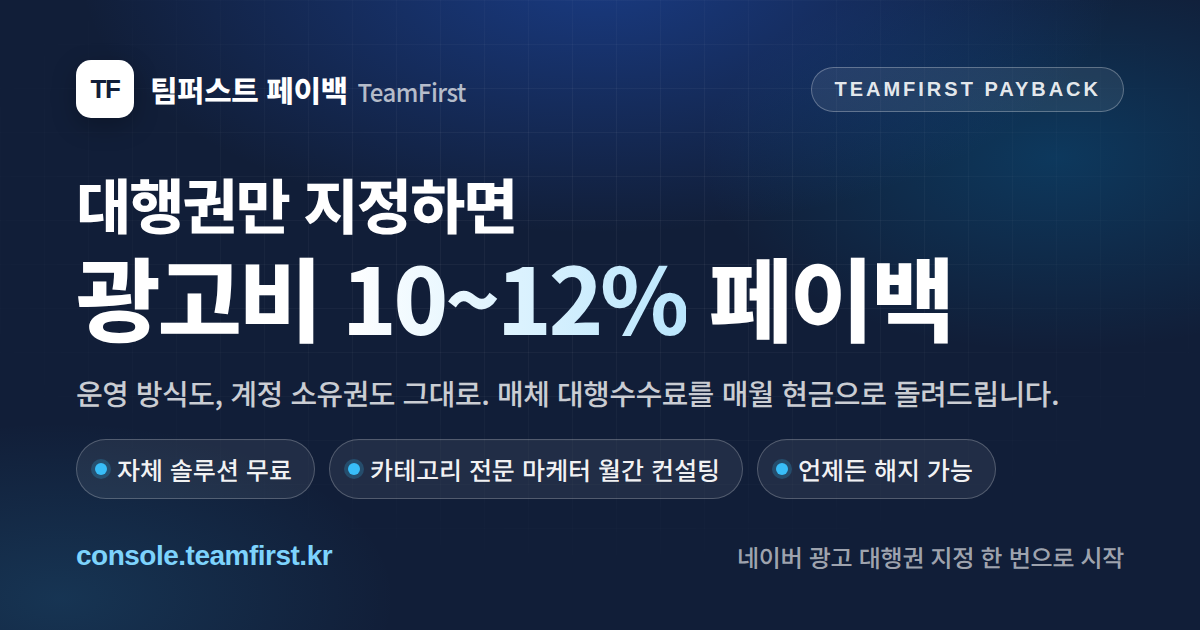
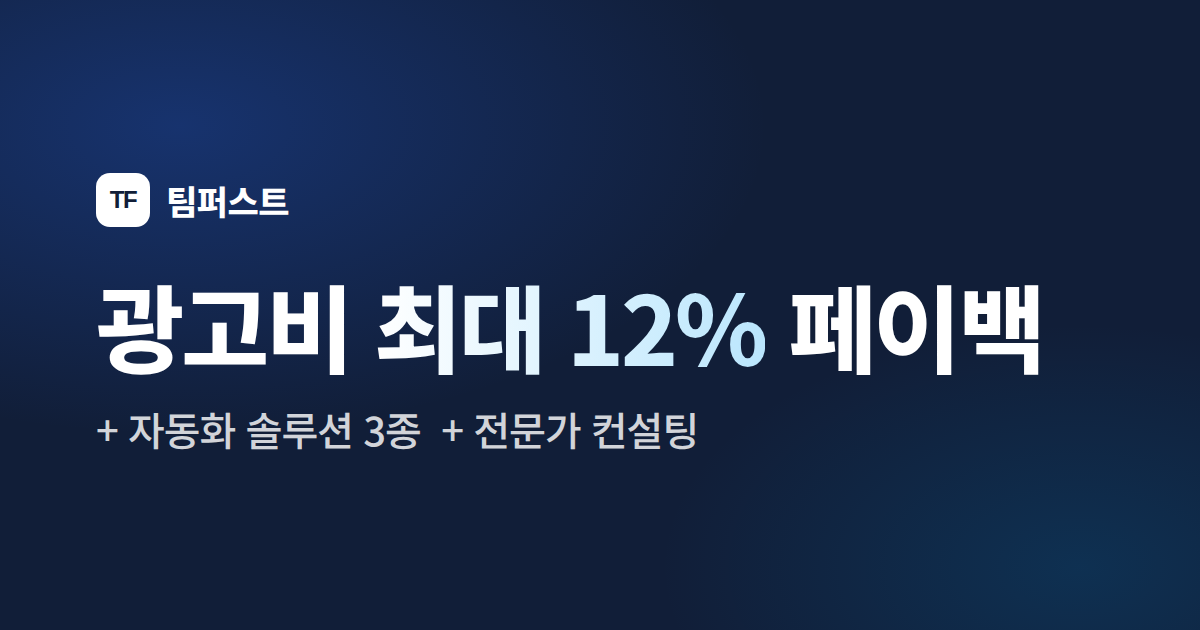
fix(seo): 링크 미리보기 제목 "팀퍼스트" + OG 이미지 미니멀 재구성
- 제목: "팀퍼스트", 설명: "광고비 최대 12% 페이백 + 자동화 솔루션 3종 + 전문가 컨설팅 …"
- OG 이미지: 배지·칩·URL·보조 문구 제거 → 브랜드 + 헤드라인 "광고비 최대 12% 페이백"
  + 한 줄 "+ 자동화 솔루션 3종 + 전문가 컨설팅"만 남긴 구성 (광고 배너 느낌 완화)
- 재생성 템플릿(docs/assets/og-image.html)·alt·DECISIONS D-072 동기화

Claude-Session: https://claude.ai/code/session_01AgqvyaaWHPUd1xCxC5BYys

diff --git a/docs/assets/og-image.html b/docs/assets/og-image.html
@@ -6,7 +6,7 @@
 <!--
   링크 공유 미리보기(OG) 이미지 원본 템플릿 — app/opengraph-image.png 재생성용.
   재생성: 이 파일을 1200×630 뷰포트(Playwright/Chromium 등)로 열어 PNG 스크린샷 → app/opengraph-image.png 교체.
-  요율(10~12%)·문구 변경 시 함께 갱신할 것 (docs/DECISIONS.md D-072).
+  요율(최대 12%)·문구 변경 시 함께 갱신할 것 (docs/DECISIONS.md D-072).
 -->
 <link rel="preconnect" href="https://fonts.googleapis.com">
 <link rel="stylesheet" href="https://fonts.googleapis.com/css2?family=Noto+Sans+KR:wght@500;800&display=swap">
@@ -21,69 +21,28 @@
   }
   .glow { position: absolute; inset: 0;
     background:
-      radial-gradient(62% 60% at 50% -5%, rgba(37, 99, 235, 0.42), transparent 70%),
-      radial-gradient(42% 44% at 88% 25%, rgba(2, 132, 199, 0.26), transparent 70%),
-      radial-gradient(40% 40% at 5% 95%, rgba(56, 189, 248, 0.14), transparent 70%); }
-  .grid { position: absolute; inset: 0;
-    background-image:
-      linear-gradient(rgba(255,255,255,0.045) 1px, transparent 1px),
-      linear-gradient(90deg, rgba(255,255,255,0.045) 1px, transparent 1px);
-    background-size: 44px 44px;
-    -webkit-mask-image: radial-gradient(75% 75% at 50% 35%, #000 25%, transparent 78%); }
-  .wrap { position: relative; height: 100%; padding: 60px 76px 56px; display: flex; flex-direction: column; justify-content: space-between; }
-  .top { display: flex; align-items: center; justify-content: space-between; }
+      radial-gradient(70% 70% at 15% 20%, rgba(37, 99, 235, 0.30), transparent 70%),
+      radial-gradient(50% 55% at 90% 90%, rgba(2, 132, 199, 0.18), transparent 70%); }
+  .wrap { position: relative; height: 100%; padding: 0 96px; display: flex; flex-direction: column; justify-content: center; }
   .brand { display: flex; align-items: center; gap: 16px; }
-  .badge { width: 58px; height: 58px; border-radius: 15px; background: #fff; color: #111E38;
-    display: flex; align-items: center; justify-content: center; font-weight: 800; font-size: 26px; letter-spacing: -1.5px;
-    font-family: "Helvetica Neue", Arial, "Noto Sans KR", sans-serif; box-shadow: 0 8px 24px rgba(0,0,0,0.25); }
-  .brand-name { font-size: 30px; font-weight: 800; letter-spacing: -0.5px; }
-  .brand-name small { font-weight: 500; color: rgba(255,255,255,0.7); font-size: 24px; margin-left: 10px; }
-  .pill { border: 1.5px solid rgba(255,255,255,0.28); background: rgba(255,255,255,0.08); border-radius: 999px;
-    padding: 10px 22px; font-size: 20px; font-weight: 800; letter-spacing: 3px; color: rgba(255,255,255,0.9);
+  .badge { width: 54px; height: 54px; border-radius: 14px; background: #fff; color: #111E38;
+    display: flex; align-items: center; justify-content: center; font-weight: 800; font-size: 24px; letter-spacing: -1.5px;
     font-family: "Helvetica Neue", Arial, "Noto Sans KR", sans-serif; }
-  .hero { margin-top: 10px; }
-  .h1 { font-size: 60px; font-weight: 800; line-height: 1.16; letter-spacing: -2px; }
-  .h1 .big { display: block; font-size: 92px; line-height: 1.1; letter-spacing: -3.5px; margin-top: 6px; }
+  .brand-name { font-size: 34px; font-weight: 800; letter-spacing: -0.5px; }
+  .h1 { margin-top: 44px; font-size: 96px; font-weight: 800; line-height: 1.12; letter-spacing: -3.5px; }
   .h1 .grad { background: linear-gradient(90deg, #ffffff 0%, #bae6fd 100%); -webkit-background-clip: text; background-clip: text; color: transparent; }
-  .sub { margin-top: 26px; font-size: 29px; font-weight: 500; line-height: 1.45; color: rgba(255,255,255,0.78); letter-spacing: -0.5px; }
-  .chips { margin-top: 26px; display: flex; gap: 14px; flex-wrap: wrap; }
-  .chip { display: flex; align-items: center; gap: 10px; border: 1.5px solid rgba(255,255,255,0.22); background: rgba(255,255,255,0.07);
-    border-radius: 999px; padding: 11px 22px 11px 18px; font-size: 25px; font-weight: 500; color: rgba(255,255,255,0.95); }
-  .chip i { width: 12px; height: 12px; border-radius: 999px; background: #38bdf8; box-shadow: 0 0 0 4px rgba(56,189,248,0.22); }
-  .bottom { display: flex; align-items: center; justify-content: space-between; }
-  .url { font-size: 28px; font-weight: 800; color: #7dd3fc; letter-spacing: -0.5px; font-family: "Helvetica Neue", Arial, "Noto Sans KR", sans-serif; }
-  .note { font-size: 24px; font-weight: 500; color: rgba(255,255,255,0.62); letter-spacing: -0.3px; }
+  .sub { margin-top: 22px; font-size: 40px; font-weight: 500; line-height: 1.4; color: rgba(255,255,255,0.82); letter-spacing: -1px; }
 </style>
 </head>
 <body>
   <div class="glow"></div>
-  <div class="grid"></div>
   <div class="wrap">
-    <div class="top">
-      <div class="brand">
-        <div class="badge">TF</div>
-        <div class="brand-name">팀퍼스트 페이백<small>TeamFirst</small></div>
-      </div>
-      <div class="pill">TEAMFIRST PAYBACK</div>
+    <div class="brand">
+      <div class="badge">TF</div>
+      <div class="brand-name">팀퍼스트</div>
     </div>
-
-    <div class="hero">
-      <div class="h1">
-        대행권만 지정하면
-        <span class="big">광고비 <span class="grad">10~12%</span> 페이백</span>
-      </div>
-      <div class="sub">운영 방식도, 계정 소유권도 그대로. 매체 대행수수료를 매월 현금으로 돌려드립니다.</div>
-      <div class="chips">
-        <div class="chip"><i></i>자체 솔루션 무료</div>
-        <div class="chip"><i></i>카테고리 전문 마케터 월간 컨설팅</div>
-        <div class="chip"><i></i>언제든 해지 가능</div>
-      </div>
-    </div>
-
-    <div class="bottom">
-      <div class="url">console.teamfirst.kr</div>
-      <div class="note">네이버 광고 대행권 지정 한 번으로 시작</div>
-    </div>
+    <div class="h1">광고비 <span class="grad">최대 12%</span> 페이백</div>
+    <div class="sub">+ 자동화 솔루션 3종 &nbsp;+ 전문가 컨설팅</div>
   </div>
 </body>
 </html>

diff --git a/app/layout.tsx b/app/layout.tsx
@@ -5,9 +5,9 @@ import { Analytics, GtmNoScript } from "@/components/analytics";
 import "./globals.css";
 
 const SITE_URL = process.env.NEXT_PUBLIC_APP_URL || "https://console.teamfirst.kr";
-const SITE_TITLE = "팀퍼스트 페이백 — 대행권만 지정하면 광고비 10~12% 페이백";
+const SITE_TITLE = "팀퍼스트";
 const SITE_DESCRIPTION =
-  "네이버 광고 대행권을 팀퍼스트로 지정하면 광고비의 10~12%를 매월 현금으로 돌려드립니다. 운영 방식도 계정 소유권도 그대로, 자체 개발 솔루션 무료와 카테고리 전문 마케터 월간 컨설팅까지.";
+  "광고비 최대 12% 페이백 + 자동화 솔루션 3종 + 전문가 컨설팅. 대행권만 지정하면 운영은 그대로, 매월 현금으로 돌려드립니다.";
 
 // 사이트 기본 메타데이터 — 페이백 서비스 기준 (링크 공유 미리보기 = OG/트위터 카드).
 // OG 이미지는 app/opengraph-image.png 파일 규약으로 자동 연결(원본: docs/assets/og-image.html).

diff --git a/docs/DECISIONS.md b/docs/DECISIONS.md
@@ -422,6 +422,6 @@
 
 ### D-072. 링크 공유 미리보기(OG) — 페이백 서비스 기준으로 재구성 (2026-09-09)
 - **배경**: 메신저에 console.teamfirst.kr 공유 시 제목·설명이 구 매칭 플랫폼 문구("검증된 광고대행사 무료 매칭")였고, og:image가 없어 메신저가 페이지 첫 이미지(D-071로 추가된 CatchLog 유튜브 썸네일)를 대표 이미지로 잡음.
-- **결정**: 루트 메타데이터를 페이백 기준으로 교체 — 제목 "팀퍼스트 페이백 — 대행권만 지정하면 광고비 10~12% 페이백", 설명(운영 그대로·솔루션 무료·전문가 컨설팅), `metadataBase`(NEXT_PUBLIC_APP_URL, 기본 console.teamfirst.kr), openGraph(type/locale/siteName/url — title·description은 비워 페이지별 title이 og:title로 흐르게), twitter `summary_large_image`.
-- **OG 이미지**: `app/opengraph-image.png`(1200×630, 정적) 파일 규약 + `opengraph-image.alt.txt`. 원본 템플릿은 `docs/assets/og-image.html`(네이비 스포트라이트 배경, "대행권만 지정하면 / 광고비 10~12% 페이백", 칩 3종, URL). 동적 `ImageResponse`는 한글 폰트 번들/런타임 폰트 페치 의존이 커서 정적 PNG 채택 — 요율·문구 변경 시 템플릿을 1200×630으로 렌더해 교체.
+- **결정**: 루트 메타데이터를 페이백 기준으로 교체 — 제목 "팀퍼스트"(브랜드명만, 사용자 지시), 설명 "광고비 최대 12% 페이백 + 자동화 솔루션 3종 + 전문가 컨설팅. 대행권만 지정하면 운영은 그대로, 매월 현금으로 돌려드립니다.", `metadataBase`(NEXT_PUBLIC_APP_URL, 기본 console.teamfirst.kr), openGraph(type/locale/siteName/url — title·description은 비워 페이지별 title이 og:title로 흐르게), twitter `summary_large_image`.
+- **OG 이미지**: `app/opengraph-image.png`(1200×630, 정적) 파일 규약 + `opengraph-image.alt.txt`. 원본 템플릿은 `docs/assets/og-image.html`. 1차안(배지·칩 3종·URL·보조 문구)은 "광고 배너 같다"는 피드백으로 폐기 — 최종안은 네이비 배경에 브랜드(TF 배지+팀퍼스트), 헤드라인 "광고비 최대 12% 페이백", 보조 한 줄 "+ 자동화 솔루션 3종 + 전문가 컨설팅"만 둔 미니멀 구성. 동적 `ImageResponse`는 한글 폰트 번들/런타임 폰트 페치 의존이 커서 정적 PNG 채택 — 요율·문구 변경 시 템플릿을 1200×630으로 렌더해 교체.
 - **운영 메모**: 카카오톡·페이스북 등은 미리보기를 캐시하므로 배포 후 카카오 디벨로퍼스 "공유 디버거"(developers.kakao.com/tool/debugger/sharing)와 Facebook Sharing Debugger로 캐시 초기화 필요.
